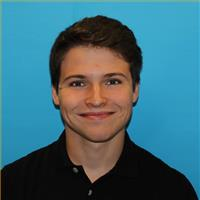
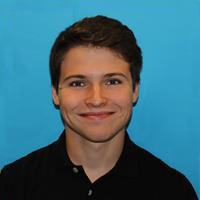
Worked on about page

Changed region(s): [[0.0, 0.0, 1.0, 0.84], [0.0, 0.87, 0.03, 1.0], [0.24, 0.45, 0.27, 0.48]]

diff --git a/about.html b/about.html
@@ -50,35 +50,33 @@
 			<section class="wrapper style5">
 				<div class="inner">
 
-					<h3>Lorem ipsum dolor</h3>
-					<p>Morbi mattis mi consectetur tortor elementum, varius pellentesque velit convallis. Aenean tincidunt lectus
-						auctor mauris maximus, ac scelerisque ipsum tempor. Duis vulputate ex et ex tincidunt, quis lacinia velit
-						aliquet. Duis non efficitur nisi, id malesuada justo. Maecenas sagittis felis ac sagittis semper. Curabitur
-						purus leo, tempus sed finibus eget, fringilla quis risus. Maecenas et lorem quis sem varius sagittis et a
-						est. Maecenas iaculis iaculis sem. Donec vel dolor at arcu tincidunt bibendum. Interdum et malesuada fames
-						ac ante ipsum primis in faucibus. Fusce ut aliquet justo. Donec id neque ipsum. Integer eget ultricies odio.
-						Nam vel ex a orci fringilla tincidunt. Aliquam eleifend ligula non velit accumsan cursus. Etiam ut gravida
-						sapien.</p>
+					<img src="images/volcard.jpg" alt="" style="display: block; margin: auto; border: 3px solid black" />
 
-					<p>Vestibulum ultrices risus velit, sit amet blandit massa auctor sit amet. Sed eu lectus sem. Phasellus in
-						odio at ipsum porttitor mollis id vel diam. Praesent sit amet posuere risus, eu faucibus lectus. Vivamus ex
-						ligula, tempus pulvinar ipsum in, auctor porta quam. Proin nec dui cursus, posuere dui eget interdum. Fusce
-						lectus magna, sagittis at facilisis vitae, pellentesque at etiam. Quisque posuere leo quis sem commodo, vel
-						scelerisque nisi scelerisque. Suspendisse id quam vel tortor tincidunt suscipit. Nullam auctor orci eu dolor
-						consectetur, interdum ullamcorper ante tincidunt. Mauris felis nec felis elementum varius.</p>
+					<h3>Hello!</h3>
+
+					<p>My name is Shannon Hall, and I am a first-year graduate student here at the University of Tennessee,
+						Knoxville. I completed my undergrad, for a bachelors in mathematics, also at the University of Tennessee.
+						My love for math began in high school when I took a calculus class for the first time. Nowadays, I am
+						mainly interested in what most mathematicians would call pure math, although I still do enjoy applied
+						math. This basically means that I like doing math for the sake of doing math. I have had some experience
+						with abstract algebra recently, but I want to delve more into some other areas before I settle down with
+						one specific branch of mathematics. I am excited to learn all that I can at UT!</p>
+
+					<p>I also have a minor in computer science, and I enjoy programming and computers in general. Most of my
+						experience is with C++, but I have had much more experience recently using Python for my math courses and
+						other everyday tasks. Check out my GitHub link at the bottom of this page for some of my projects!</p>
 
 					<hr />
 
-					<h4>Feugiat aliquam</h4>
-					<p>Nam sapien ante, varius in pulvinar vitae, rhoncus id massa. Donec varius ex in mauris ornare, eget euismod
-						urna egestas. Etiam lacinia tempor ipsum, sodales porttitor justo. Aliquam dolor quam, semper in tortor eu,
-						volutpat efficitur quam. Fusce nec fermentum nisl. Aenean erat diam, tempus aliquet erat.</p>
+					<p>Outside of school, I have plenty of other hobbies. I am a Christian, and I have participated in some
+						groups, like the Turn and VolCatholic, at UT. I enjoy listening to and learning about music, and I can
+						currently play some piano and guitar. I like to work out, especially when it comes to running and
+						weightlifting. Other than that, I enjoy most sports, and I like being outdoors in general. I have a
+						collection of Rubik's cubes, and I enjoy speedcubing, although I am a little more rusty than I used to be,
+						thanks to college.</p>
 
-					<p>Etiam iaculis nulla ipsum, et pharetra libero rhoncus ut. Phasellus rutrum cursus velit, eget condimentum
-						nunc blandit vel. In at pulvinar lectus. Morbi diam ante, vulputate et imperdiet eget, fermentum non dolor.
-						Ut eleifend sagittis tincidunt. Sed viverra commodo mi, ac rhoncus justo. Duis neque ligula, elementum ut
-						enim vel, posuere finibus justo. Vivamus facilisis maximus nibh quis pulvinar. Quisque hendrerit in ipsum id
-						tellus facilisis fermentum. Proin mauris dui, at vestibulum sit amet, auctor bibendum neque.</p>
+					<p>Of course, this is just a small amount of the things that I enjoy, and I am always up to do new things.
+						Overall, I love to learn, and I hope that there is never a day that I have to stop!</p>
 
 				</div>
 			</section>
